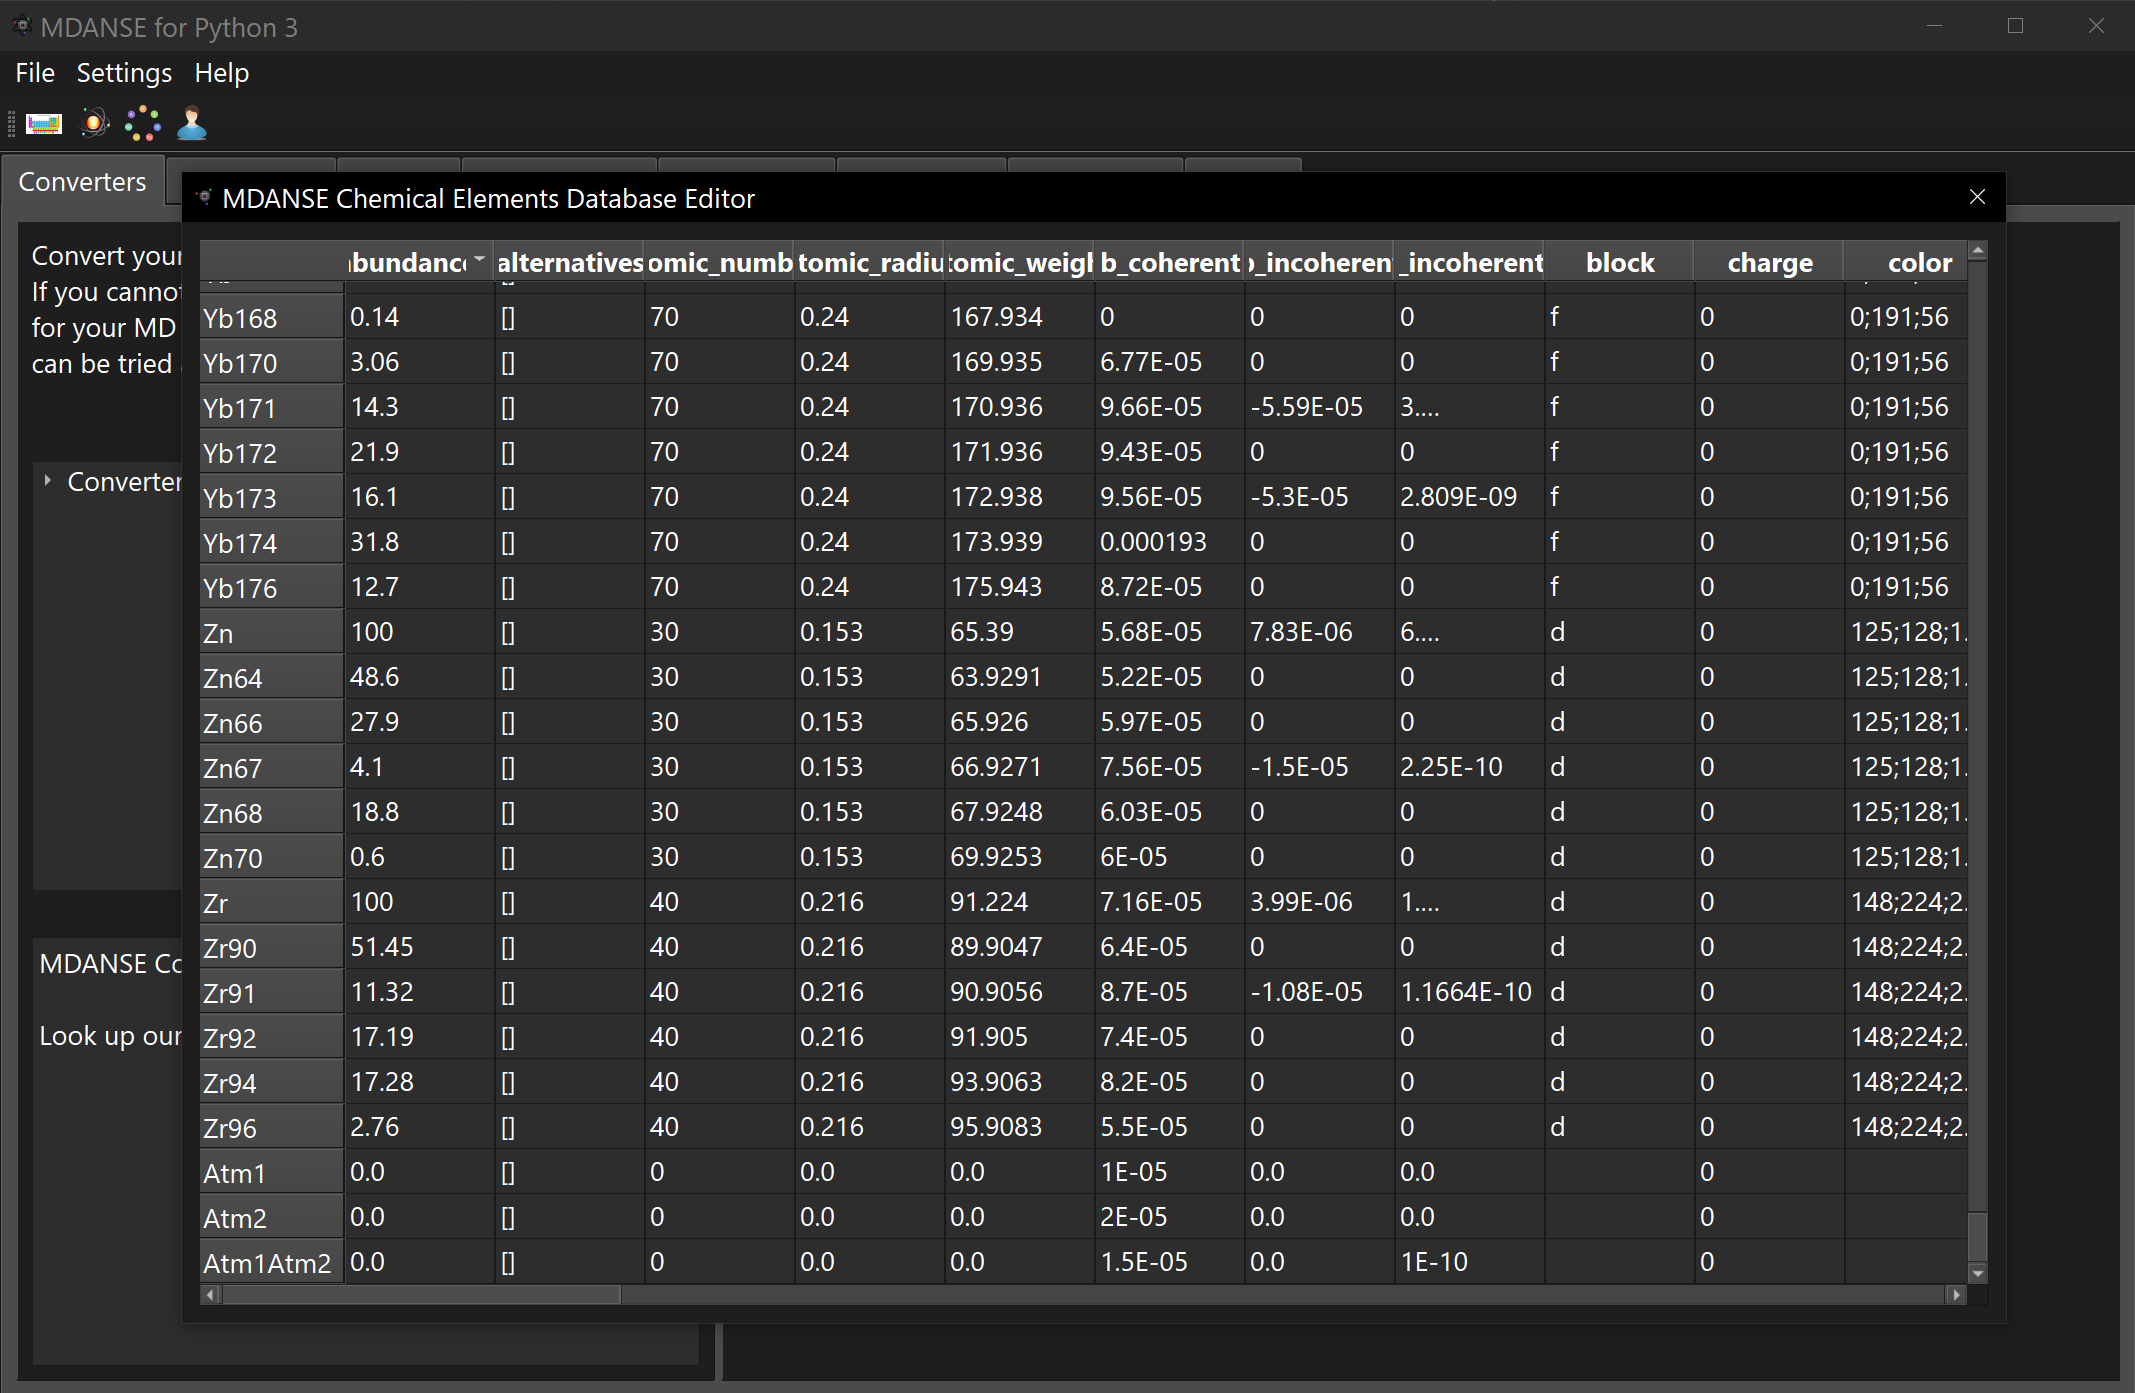
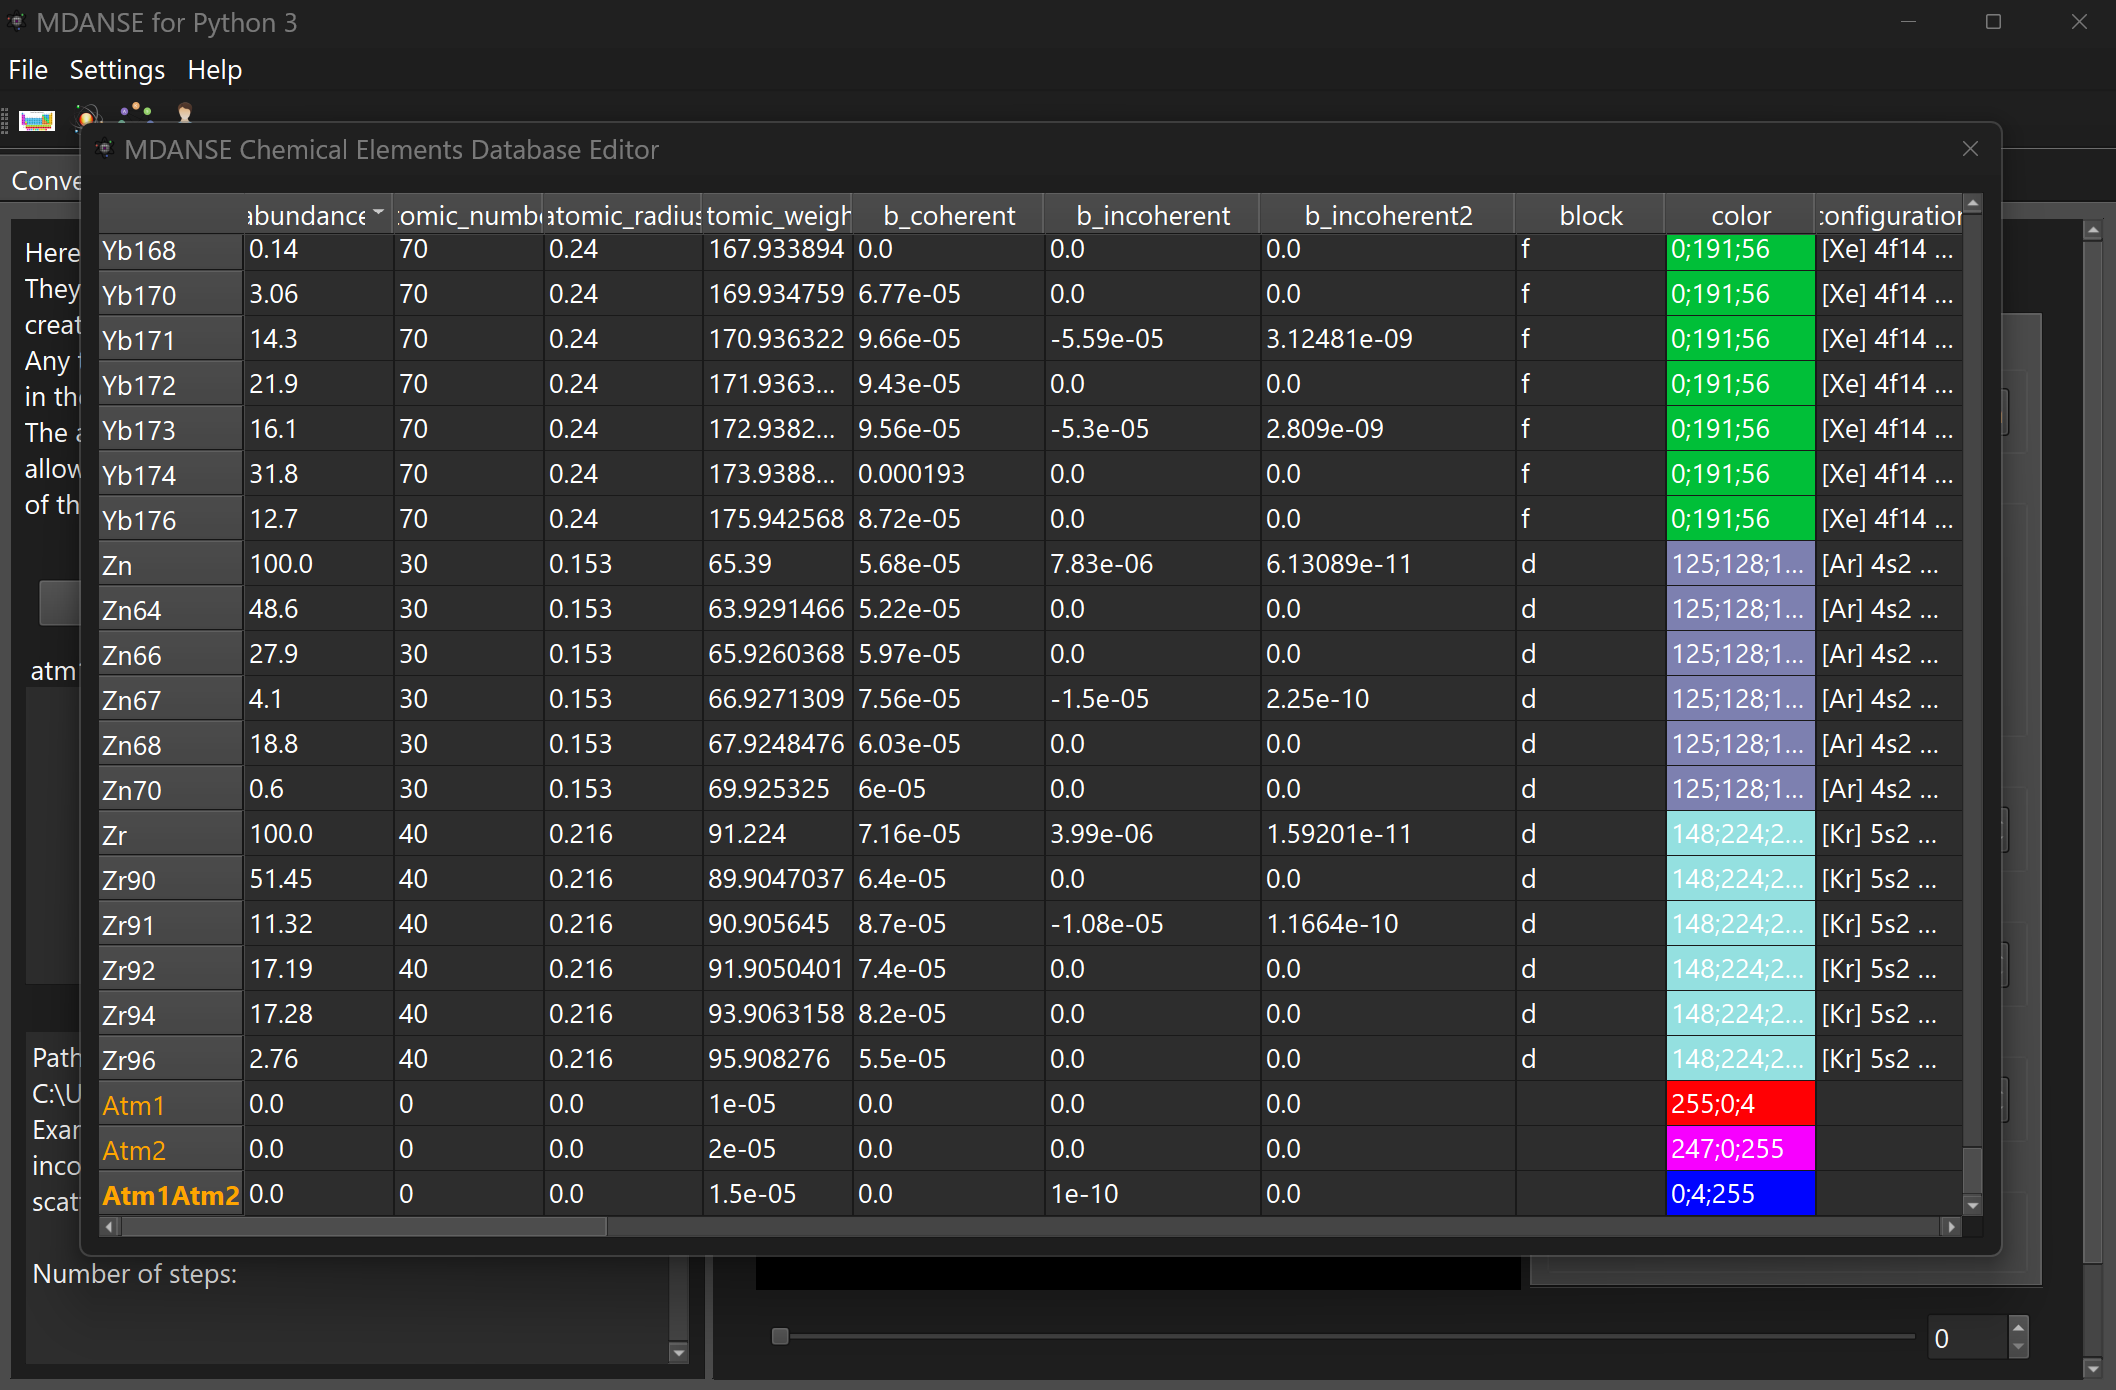
tutorial 4 edits, added tutorial 4 script 3 and updated all scripts

diff --git a/tutorials/tutorial4-coherent-and-incoherent-scattering/mdanse_inputs/script3_atm1_atm2.py b/tutorials/tutorial4-coherent-and-incoherent-scattering/mdanse_inputs/script3_atm1_atm2.py
@@ -1,0 +1,46 @@
+import random
+from MDANSE.Chemistry import ATOMS_DATABASE
+from MDANSE.Framework.Jobs.IJob import IJob
+
+# Create the custom atom types and
+if "Atm1" not in ATOMS_DATABASE.atoms:
+    ATOMS_DATABASE.add_atom("Atm1")
+if "Atm2" not in ATOMS_DATABASE.atoms:
+    ATOMS_DATABASE.add_atom("Atm2")
+ATOMS_DATABASE.set_value("Atm1", "b_coherent", 1e-5)
+ATOMS_DATABASE.set_value("Atm1", "b_incoherent2", 0.0)
+ATOMS_DATABASE.set_value("Atm1", "color", "255;0;4")
+ATOMS_DATABASE.set_value("Atm1", "vdw_radius", 0.188)
+ATOMS_DATABASE.set_value("Atm2", "b_coherent", 2e-5)
+ATOMS_DATABASE.set_value("Atm2", "b_incoherent2", 0.0)
+ATOMS_DATABASE.set_value("Atm2", "color", "247;0;255")
+ATOMS_DATABASE.set_value("Atm2", "vdw_radius", 0.188)
+# saves the custom atoms to your local atom database
+ATOMS_DATABASE.save()
+
+
+# Generate a mapping which transmutes the atoms in the trajectory to
+# Atm1 or Atm2 randomly.
+isotopes = ["Atm1"] * 128 + ["Atm2"] * 128
+mapping = {}
+for i in list(range(256)):
+    random_element = random.choice(isotopes)
+    isotopes.remove(random_element)
+    mapping[str(i)] = random_element
+
+
+# setup to parameters to run the trajectory editor.
+parameters = {
+    'atom_charges': '{}',                               # atom_charges
+    'atom_selection': '{}',                             # atom_selection
+    'atom_transmutation': str(mapping).replace("'", '"'),  # atom_transmutation
+    'frames': [0, 1001, 1],                             # frames
+    'molecule_tolerance': [False, 0.04],                # molecule_tolerance
+    'output_files': ('../mdanse_outputs/converted_atm1_atm2', 64, 128, 'gzip', 'INFO'),  # MDANSE trajectory (filename, format)
+    'trajectory': '../mdanse_outputs/converted_trajectory.mdt',  # trajectory
+}
+
+
+if __name__ == "__main__":
+    trajectoryeditor = IJob.create('TrajectoryEditor')
+    trajectoryeditor.run(parameters, status=True)

diff --git a/tutorials/tutorial2-van-hove-function/mdanse_inputs/script1_conversion.py b/tutorials/tutorial2-van-hove-function/mdanse_inputs/script1_conversion.py
@@ -1,4 +1,4 @@
-#!C:\Users\xcb63893\AppData\Local\anaconda3\envs\MDANSE\python.exe
+#!/usr/bin/env python
 
 ########################################################
 # This is an automatically generated MDANSE run script #

diff --git a/tutorials/tutorial2-van-hove-function/mdanse_inputs/script2_vhfd.py b/tutorials/tutorial2-van-hove-function/mdanse_inputs/script2_vhfd.py
@@ -1,4 +1,4 @@
-#!C:\Users\xcb63893\AppData\Local\anaconda3\envs\MDANSE\python.exe
+#!/usr/bin/env python
 
 ########################################################
 # This is an automatically generated MDANSE run script #

diff --git a/tutorials/tutorial2-van-hove-function/mdanse_inputs/script3_vhfs.py b/tutorials/tutorial2-van-hove-function/mdanse_inputs/script3_vhfs.py
@@ -1,4 +1,4 @@
-#!C:\Users\xcb63893\AppData\Local\anaconda3\envs\MDANSE\python.exe
+#!/usr/bin/env python
 
 ########################################################
 # This is an automatically generated MDANSE run script #

diff --git a/tutorials/tutorial3-quasielastic-neutron-scattering/mdanse_inputs/script1_conversion.py b/tutorials/tutorial3-quasielastic-neutron-scattering/mdanse_inputs/script1_conversion.py
@@ -1,4 +1,4 @@
-#!C:\Users\xcb63893\AppData\Local\anaconda3\envs\MDANSE\python.exe
+#!/usr/bin/env python
 
 ########################################################
 # This is an automatically generated MDANSE run script #

diff --git a/tutorials/tutorial3-quasielastic-neutron-scattering/mdanse_inputs/script2_disf.py b/tutorials/tutorial3-quasielastic-neutron-scattering/mdanse_inputs/script2_disf.py
@@ -1,4 +1,4 @@
-#!C:\Users\xcb63893\AppData\Local\anaconda3\envs\MDANSE\python.exe
+#!/usr/bin/env python
 
 ########################################################
 # This is an automatically generated MDANSE run script #

diff --git a/tutorials/tutorial3-quasielastic-neutron-scattering/mdanse_inputs/script3_gdisf.py b/tutorials/tutorial3-quasielastic-neutron-scattering/mdanse_inputs/script3_gdisf.py
@@ -1,4 +1,4 @@
-#!C:\Users\xcb63893\AppData\Local\anaconda3\envs\MDANSE\python.exe
+#!/usr/bin/env python
 
 ########################################################
 # This is an automatically generated MDANSE run script #

diff --git a/tutorials/tutorial4-coherent-and-incoherent-scattering/mdanse_inputs/script1_conversion.py b/tutorials/tutorial4-coherent-and-incoherent-scattering/mdanse_inputs/script1_conversion.py
@@ -1,4 +1,4 @@
-#!C:\Users\xcb63893\AppData\Local\anaconda3\envs\MDANSE\python.exe
+#!/usr/bin/env python
 
 ########################################################
 # This is an automatically generated MDANSE run script #

diff --git a/tutorials/tutorial4-coherent-and-incoherent-scattering/README.md b/tutorials/tutorial4-coherent-and-incoherent-scattering/README.md
@@ -134,15 +134,23 @@ tutorial we will need to create two new trajectories from the argon one.
 
 First lets create `Atm1`, `Atm2`, and `Atm1Atm2` atom types. Click the MDANSE 
 Chemical Elements Database Editor button (next to the periodic table button) 
-to load up the editor. Right-click on the table and add three new atoms 
-`Atm1`, `Atm2`, and `Atm1Atm2`. Then set the `b_coherent` and `b_incoherent2`
-properties as shown in the screenshot below.
+to load up the editor. Right-click on the table, click `New Custom Atom` and 
+add three new atoms `Atm1`, `Atm2`, and `Atm1Atm2` (if these custom atoms 
+already exist then delete them before editing). 
+Then set the `b_coherent` and `b_incoherent2` properties following the 
+screenshot below. 
 
 <p align="center">
     <img width="800" src="pictures/atom_editor.png"/>
 </p>
 
-We defined `Atm1Atm2` to be formed from a 50/50 mixture of Atm1 and Atm2 
+When creating a new atom the default color is white,
+change `Atm1`, `Atm2`, and `Atm1Atm2` color so that they are different 
+to each other. Finally, set the `vdw_radius` key to `0.188` so that the 
+different atom types will be visible in the 3D view and have different 
+colors to each other.
+
+We defined `Atm1Atm2` to be formed from a 50/50 mixture of `Atm1` and `Atm2`
 so that 
 
 ```math
@@ -164,5 +172,13 @@ string into the transmutation setting box and save the trajectory to
 
 <p align="center">
     <img width="800" src="pictures/traj_edit_atm1_atm2.png"/>
+</p>
+
+Go to the 3D view to view your edited trajectory, it should be the same 
+as the original except it will be formed of two different atom types.
+Check that `Atm1` and `Atm2` are randomly distributed across the unit cell.
+
+<p align="center">
+    <img width="800" src="pictures/traj_3D_atm1_atm2.png"/>
 </p>
 
